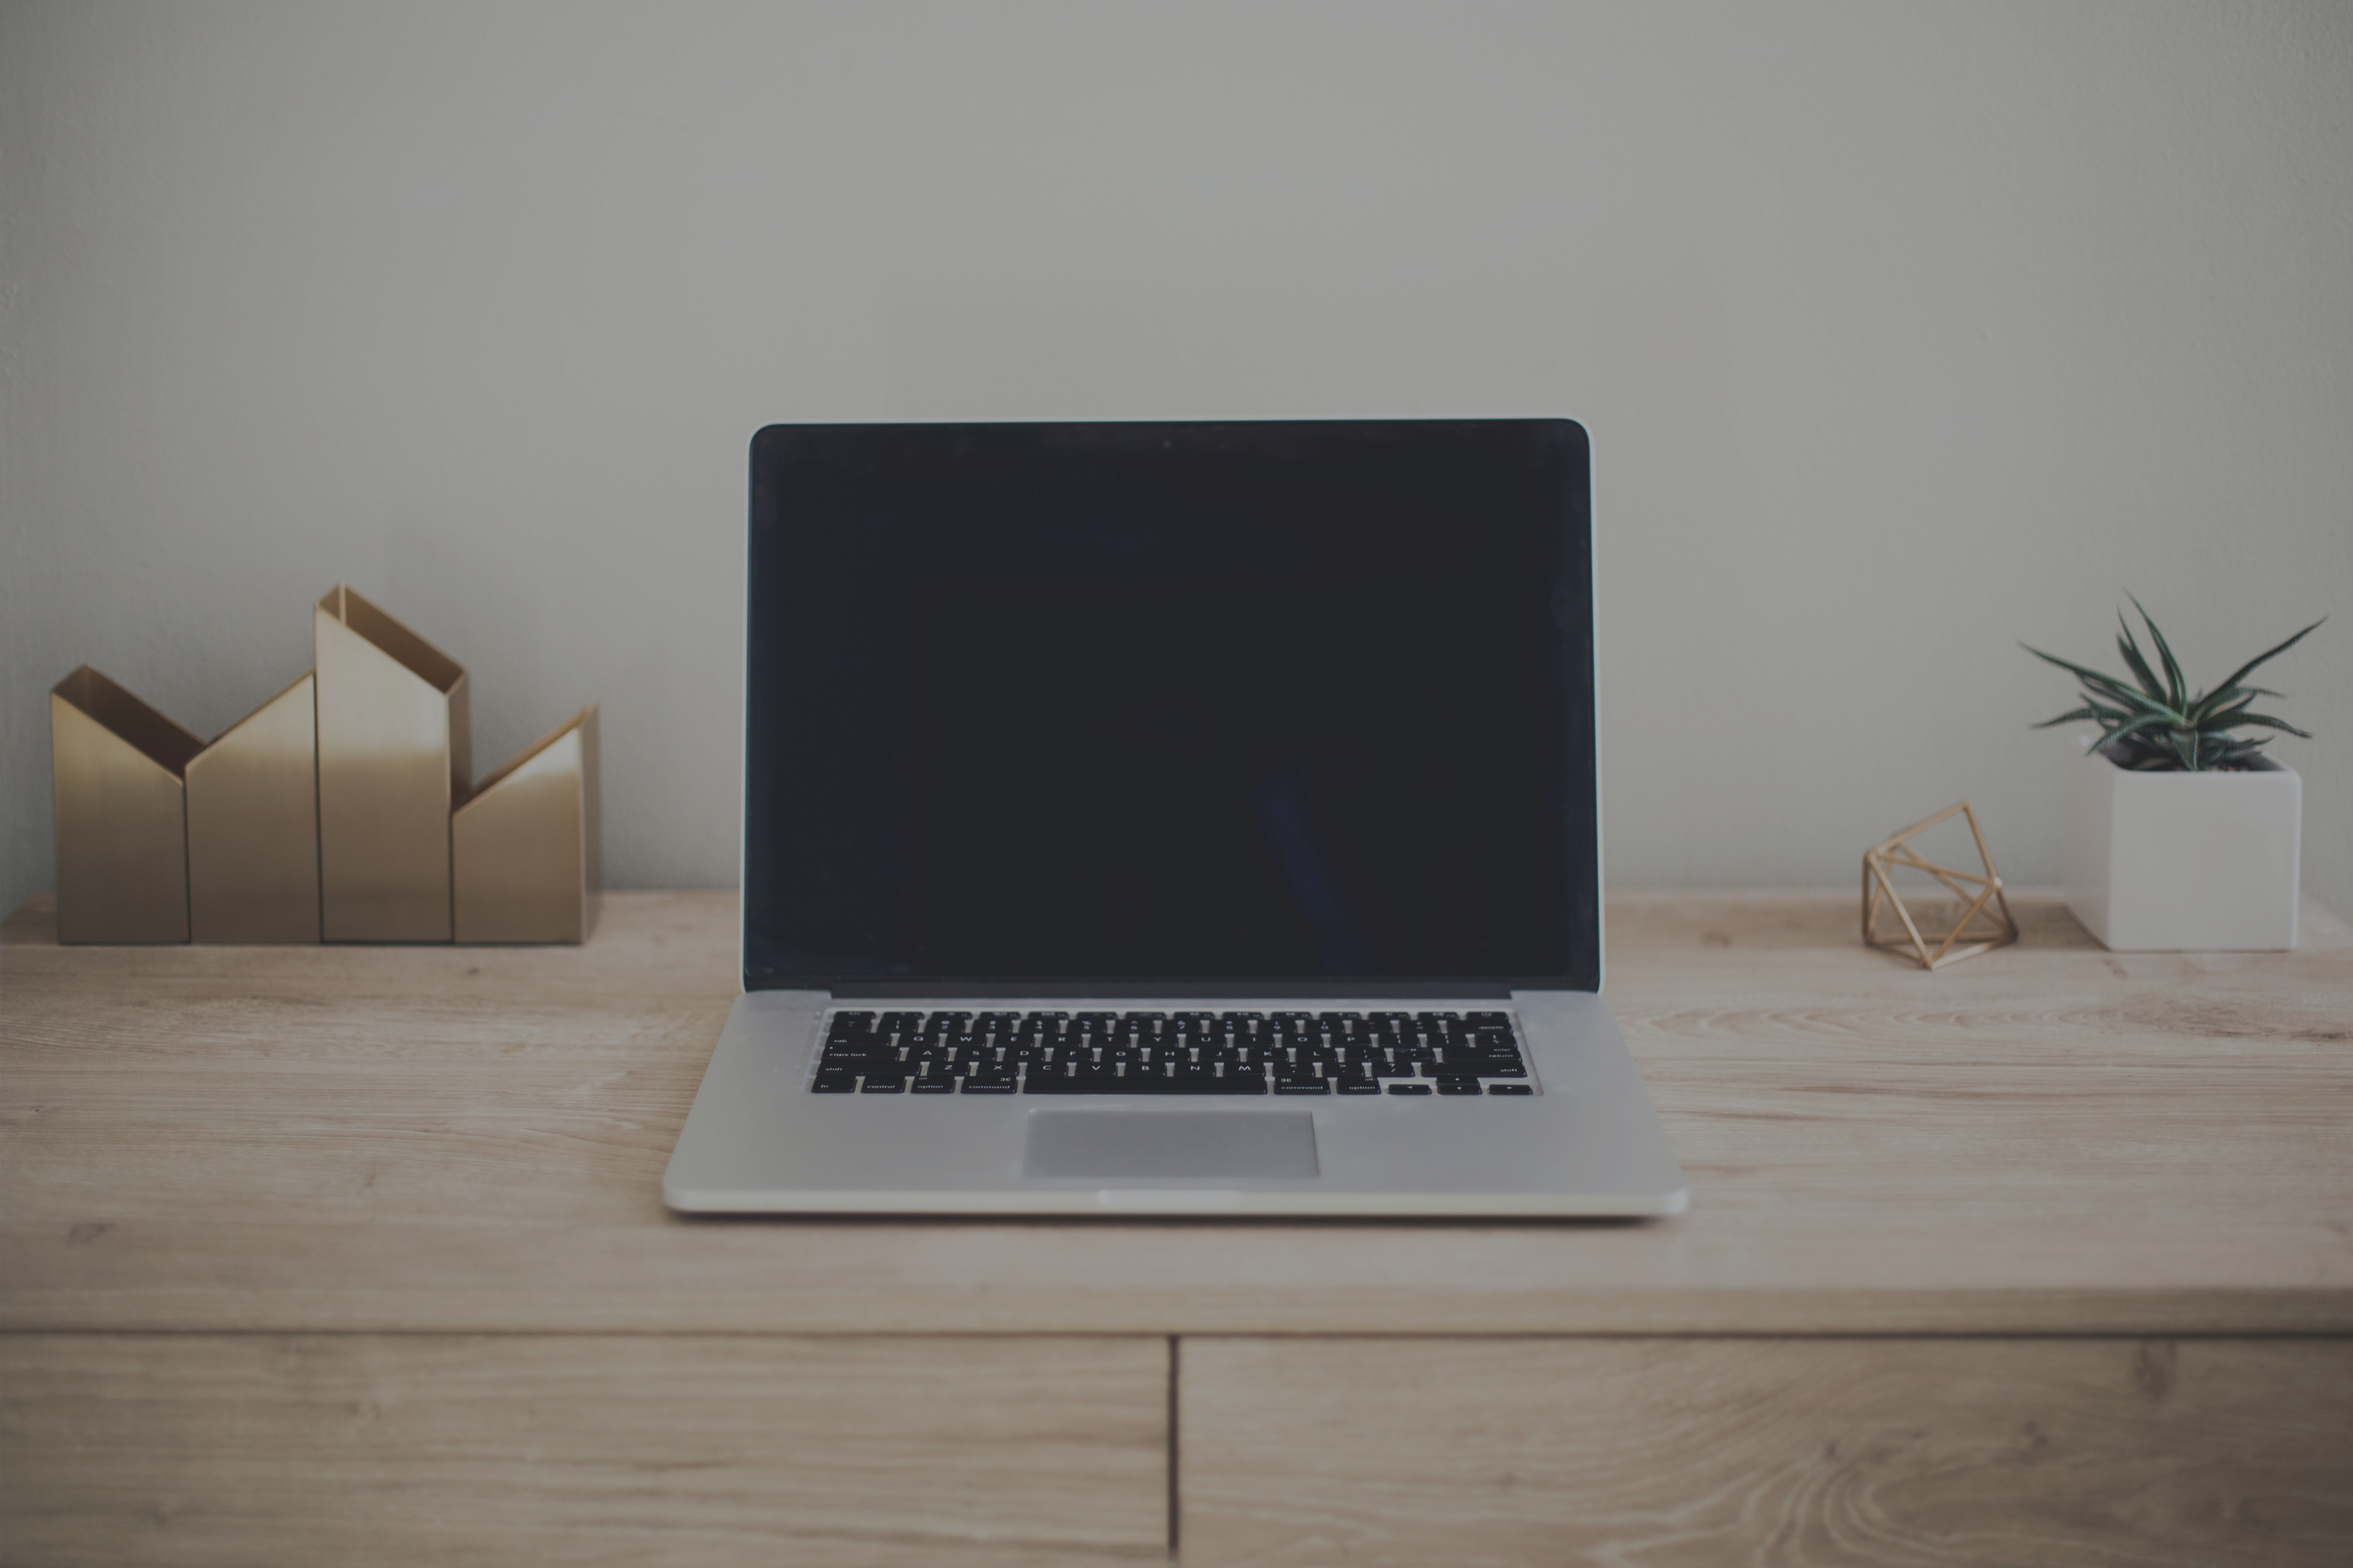
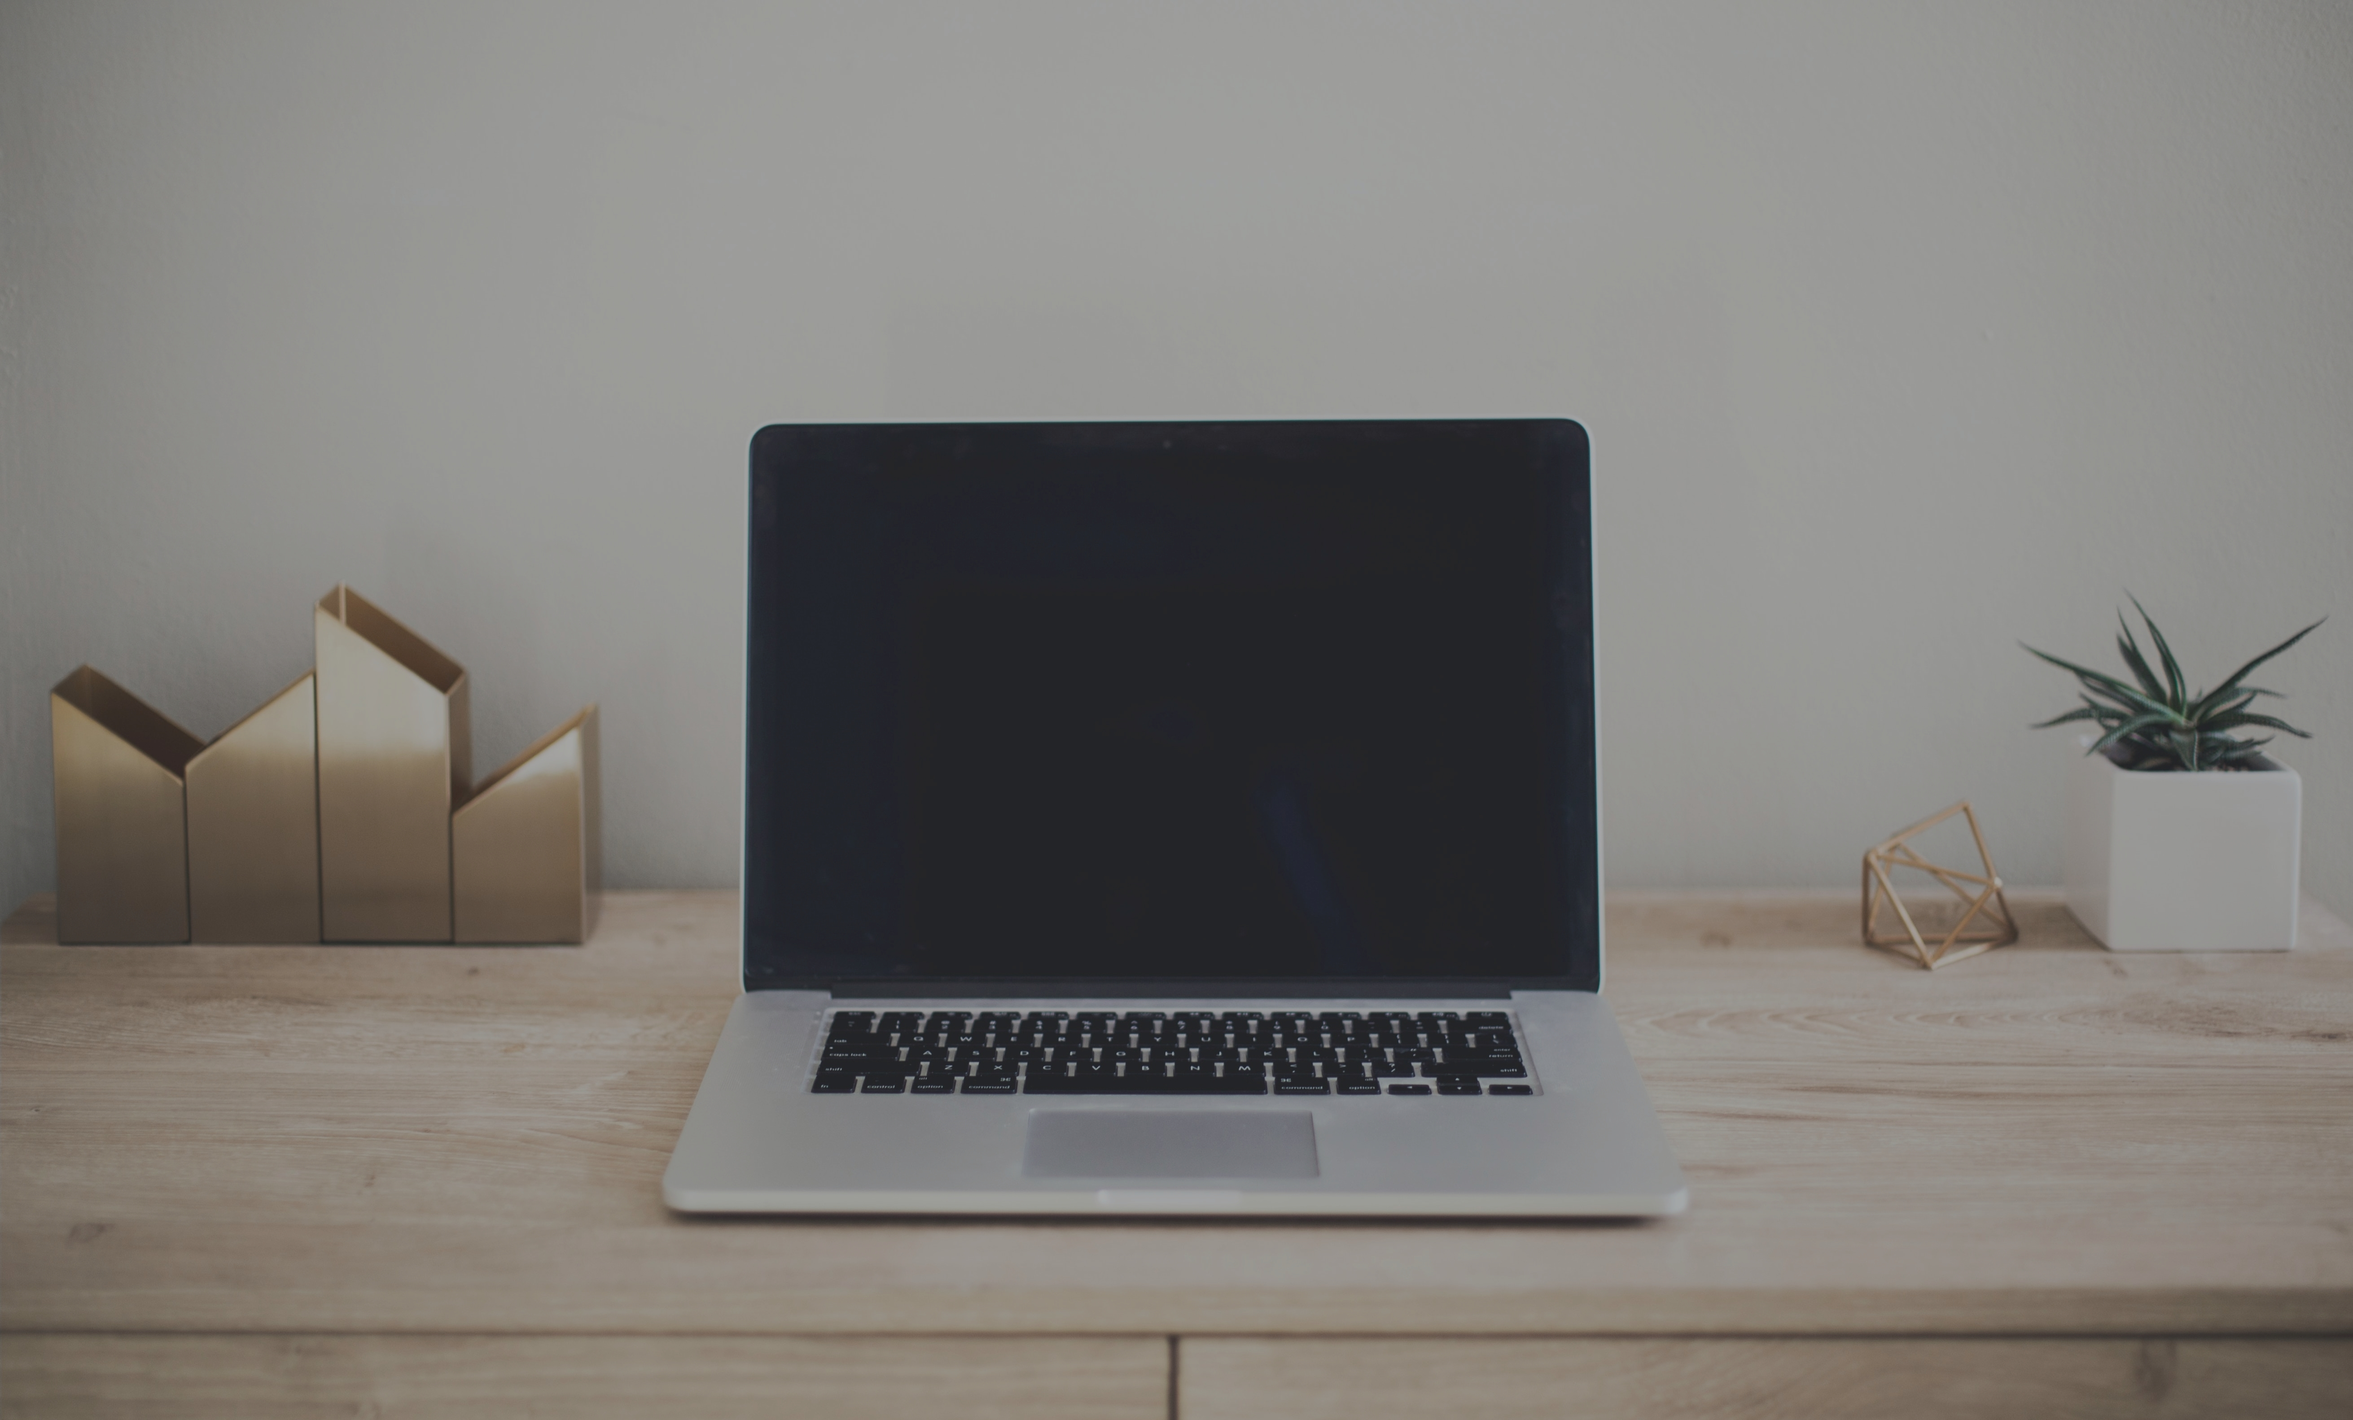
Changed showcase, descriptions, and footer padding

diff --git a/index.html b/index.html
@@ -24,12 +24,12 @@
                         <h3>
                             <a href="https://forums.terraria.org/index.php?threads/yoyos-expanded.88774/">Yoyos Expanded</a>
                         </h3>
-                        <p>Adds yoyos to Terraria</p>
+                        <p>Adds twenty-five new yoyos to Terraria, some of which have special effects. </p>
                     </div>
                     <div class="box">
                         <img src="./img/WoodVarieties.png">
-                        <h3>Wood Varieties</h3>
-                        <p>Adds wood-exclusive blocks to Minecraft</p>
+                        <h3>Wood Varieties (WIP)</h3>
+                        <p>Adds new crafting tables, chests, bookshelves, and barrels to Minecraft.</p>
                     </div>
                 </div>
             </section>

diff --git a/css/style.css b/css/style.css
@@ -15,25 +15,19 @@ body{
     overflow: hidden;
 }
 
-/* Header */
-header{
-    background-color: #303030;
-    color:#ffffff;
-    min-height: 70px;
-    text-align: center;
-}
-
 /* Showcase */
 #showcase{
     min-height: 400px;
     background:url('../img/laptop.jpg') no-repeat 0, -140px;
     background-size: cover;
+    background-position: center;
     text-align: center;
+    
 }
 
 #showcase h1{
-    margin-top:100px;
-    font-size: 55px;
+    margin-top: 100px;
+    font-size: 3.5vw;
     margin-bottom: 10px;
 }
 
@@ -66,6 +60,7 @@ main{
 
 footer{
     padding: 1px;
+    padding-left: 10px;
     margin-top:80px;
     background-color: 303030;    
 }
